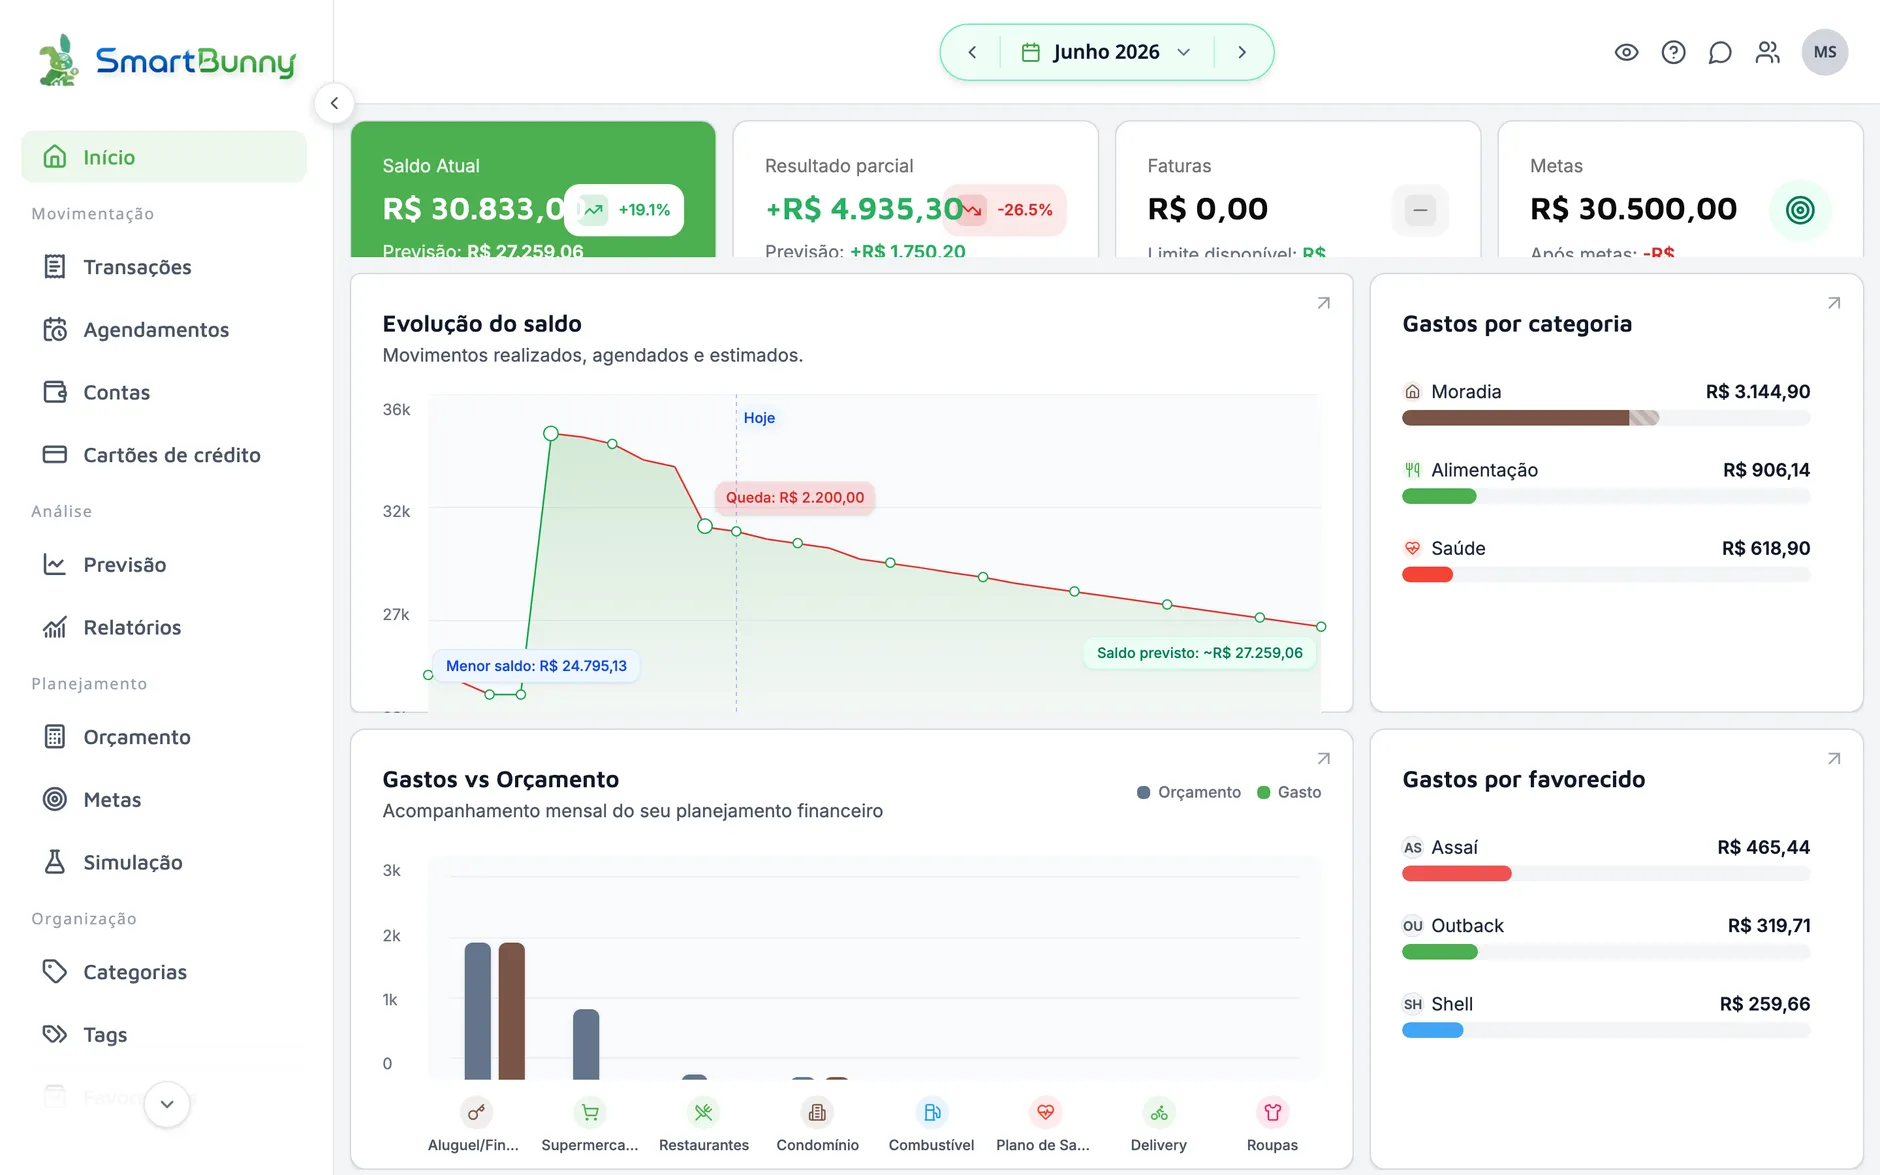
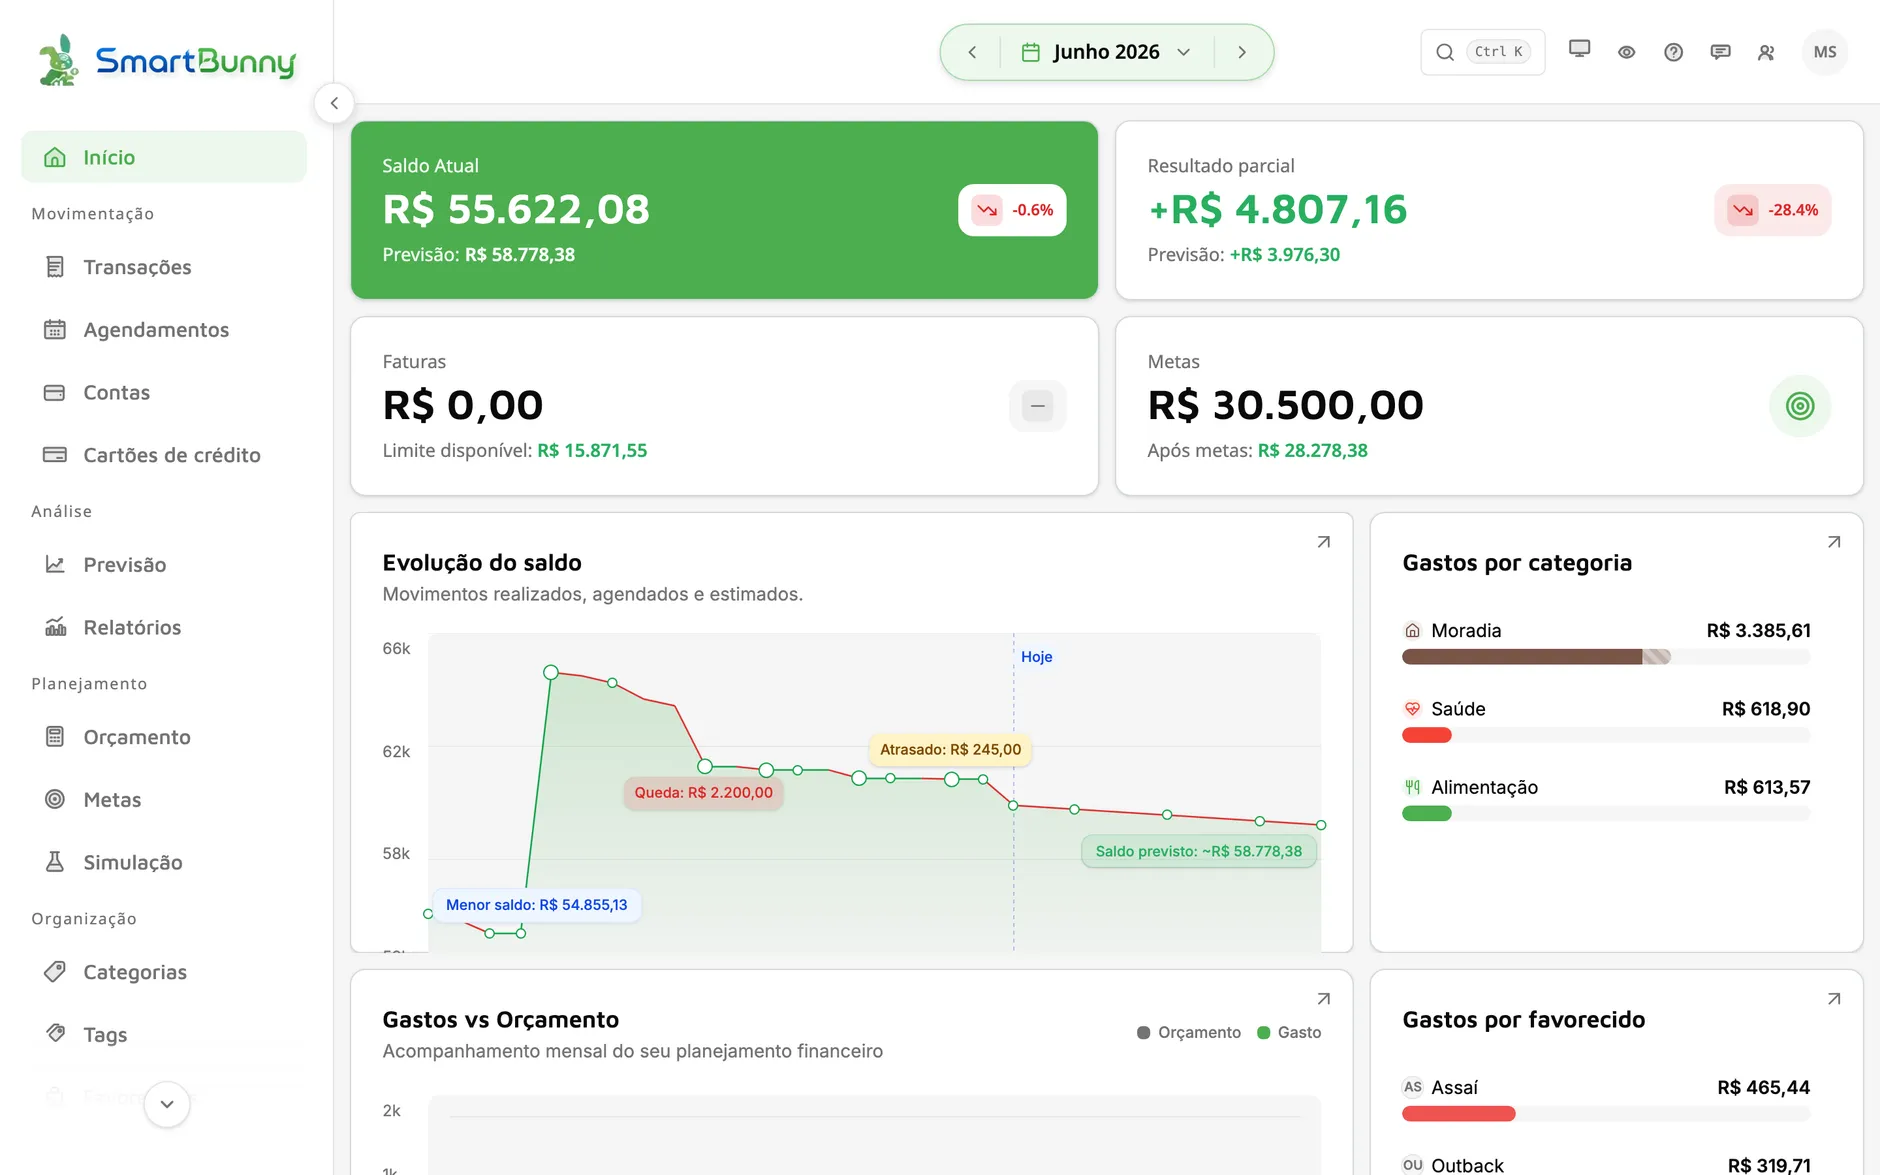
Refactor landing: remove AI, add agendamentos + cashflow, refresh prints
Realign the landing page with what SmartBunny actually ships in v1 (AI is
flag-gated off and not battle-tested) and surface two flagship features.

- Remove every AI claim and 3 over-claims (learned rules, OCR/"recibos",
  auto-detection, "500+ instituições"); reframe import as honest structured
  import (PDF/OFX/XLS/CSV with column mapping + review).
- Replace the AI-import deep-dive with an Agendamentos section that bridges
  into the cashflow forecast; reframe the forecast section as Fluxo de caixa.
- Rename the bento wide card to "Relatórios e análises" so its screenshot
  matches; point the "Assinaturas" phone card at a fresh mobile Agendamentos
  print.
- Regenerate dashboard/agendamentos/agendamentos-mobile/previsao/relatorios
  screenshots; keep metas/orcamentos (test account polluted with k6 data).
- Prune dead import section JS/CSS and unused screenshot assets; clip root
  overflow-x to remove an 11px mobile horizontal scroll.

diff --git a/index.html b/index.html
@@ -4,9 +4,9 @@
     <meta charset="UTF-8" />
     <meta name="viewport" content="width=device-width, initial-scale=1.0" />
     <title>SmartBunny — Seu dinheiro, finalmente sob controle</title>
-    <meta name="description" content="O SmartBunny conecta suas contas via Open Finance, entende seus extratos com IA e mostra o futuro do seu dinheiro — antes de ele acontecer." />
-    <meta property="og:title" content="SmartBunny — Finanças pessoais inteligentes" />
-    <meta property="og:description" content="Conecte suas contas, importe extratos com IA e veja o futuro do seu dinheiro. Feito para o Brasil." />
+    <meta name="description" content="O SmartBunny conecta suas contas via Open Finance, organiza seus lançamentos e projeta seu fluxo de caixa — para você ver o futuro do seu dinheiro antes de ele acontecer." />
+    <meta property="og:title" content="SmartBunny — Finanças pessoais sob controle" />
+    <meta property="og:description" content="Conecte suas contas, organize seus lançamentos e veja seu fluxo de caixa projetado. Feito para o Brasil." />
     <meta property="og:type" content="website" />
     <meta property="og:url" content="https://codexforgebr.github.io/smartbunny-landing/" />
     <meta property="og:image" content="https://codexforgebr.github.io/smartbunny-landing/og-image.png" />
@@ -46,8 +46,8 @@
           </p>
           <h1 class="hero__title" data-split>Seu dinheiro, finalmente sob controle.</h1>
           <p class="hero__sub" data-reveal>
-            O SmartBunny conecta suas contas, entende seus extratos com IA e mostra
-            o futuro do seu dinheiro — <strong>antes de ele acontecer</strong>.
+            O SmartBunny conecta suas contas, organiza seus lançamentos e projeta seu
+            fluxo de caixa — você vê o futuro do seu dinheiro <strong>antes de ele acontecer</strong>.
           </p>
           <div class="hero__actions" data-reveal>
             <a class="btn btn--primary btn--lg" href="#cta" data-magnetic>Quero acesso antecipado</a>
@@ -80,14 +80,14 @@
       <!-- ======================= MARQUEE ======================= -->
       <section class="marquee" aria-label="Integrações">
         <p class="marquee__lead container">
-          <strong>500+ instituições</strong> conectadas via Open Finance
+          <strong>Centenas de instituições</strong> conectadas via Open Finance
         </p>
         <div class="marquee__track" id="marquee" aria-hidden="true">
           <div class="marquee__row">
             <span class="chip">Pix</span><span class="chip">Boleto</span><span class="chip">Open Finance</span>
-            <span class="chip">Extrato PDF</span><span class="chip">OFX</span><span class="chip">XLS</span>
+            <span class="chip">Extrato PDF</span><span class="chip">OFX</span><span class="chip">XLS</span><span class="chip">CSV</span>
             <span class="chip">Cartão de crédito</span><span class="chip">TED &amp; DOC</span>
-            <span class="chip">Recibos</span><span class="chip">Multi-contas</span><span class="chip">Faturas</span>
+            <span class="chip">Multi-contas</span><span class="chip">Faturas</span>
           </div>
         </div>
       </section>
@@ -99,8 +99,8 @@
           <h2 class="section__title" data-split>Um painel. Todas as suas finanças.</h2>
           <div class="bento__grid">
             <article class="bento__card bento__card--wide" data-reveal>
-              <h3>Painel unificado</h3>
-              <p>Contas, cartões, faturas e metas em uma visão única — com a evolução do seu saldo dia a dia.</p>
+              <h3>Relatórios e análises</h3>
+              <p>Receitas, despesas e categorias mês a mês — compare períodos e entenda para onde seu dinheiro está indo.</p>
               <img src="./src/assets/screens/relatorios.webp" alt="Relatórios do SmartBunny com gráfico de receitas e despesas por mês" loading="lazy" width="940" height="588" />
             </article>
             <article class="bento__card" data-reveal>
@@ -114,15 +114,15 @@
               <span class="bento__icon" aria-hidden="true">
                 <svg viewBox="0 0 24 24" fill="none" stroke="currentColor" stroke-width="1.8"><path d="M12 3v13m0 0 4-4m-4 4-4-4"/><path d="M4 21h16"/></svg>
               </span>
-              <h3>Importação com IA</h3>
-              <p>PDF, XLS, OFX ou foto de recibo: a IA entende Pix, boleto e fatura — e categoriza sozinha.</p>
+              <h3>Importe seus extratos</h3>
+              <p>PDF, OFX, XLS ou CSV: mapeie as colunas e revise tudo antes de confirmar a importação.</p>
             </article>
             <article class="bento__card" data-reveal>
               <span class="bento__icon" aria-hidden="true">
                 <svg viewBox="0 0 24 24" fill="none" stroke="currentColor" stroke-width="1.8"><path d="M12 2v4m0 12v4M2 12h4m12 0h4"/><circle cx="12" cy="12" r="4"/></svg>
               </span>
-              <h3>Regras inteligentes</h3>
-              <p>Automatize categorias, favorecidos e transferências com regras que aprendem com você.</p>
+              <h3>Regras de automação</h3>
+              <p>Defina uma regra uma vez e o SmartBunny categoriza, marca favorecidos e identifica transferências sozinho.</p>
             </article>
             <article class="bento__card" data-reveal>
               <span class="bento__icon" aria-hidden="true">
@@ -133,41 +133,41 @@
             </article>
             <article class="bento__card bento__card--tall" data-reveal>
               <h3>Assinaturas sob controle</h3>
-              <p>Netflix, academia, condomínio: tudo que se repete, detectado e projetado no seu fluxo.</p>
-              <img src="./src/assets/screens/transacoes-mobile.webp" alt="Resumo de transações no celular com receitas, despesas e resultado do mês" loading="lazy" width="390" height="844" />
+              <p>Netflix, academia, condomínio: cadastre o que se repete e veja tudo projetado no seu fluxo de caixa.</p>
+              <img src="./src/assets/screens/agendamentos-mobile.webp" alt="Tela de agendamentos do SmartBunny no celular com assinaturas e contas recorrentes" loading="lazy" width="390" height="844" />
             </article>
           </div>
         </div>
       </section>
 
-      <!-- ======================= IMPORT AI DEEP-DIVE ======================= -->
-      <section class="import section" id="importacao">
-        <div class="container import__layout">
-          <div class="import__copy">
-            <p class="eyebrow" data-reveal>Importação com IA</p>
-            <h2 class="section__title" data-split>Jogue o extrato. A IA faz o resto.</h2>
-            <ol class="import__steps" id="import-steps">
-              <li class="import__step is-active" data-step="0">
-                <h3>Envie qualquer arquivo</h3>
-                <p>Extrato em PDF, planilha XLS, OFX do seu banco ou até a foto de um comprovante Pix.</p>
+      <!-- ======================= AGENDAMENTOS DEEP-DIVE ======================= -->
+      <section class="agenda section" id="agendamentos">
+        <div class="container agenda__layout">
+          <div class="agenda__copy">
+            <p class="eyebrow" data-reveal>Agendamentos</p>
+            <h2 class="section__title" data-split>Tudo que se repete, sob controle.</h2>
+            <ol class="agenda__steps">
+              <li class="agenda__step" data-reveal>
+                <h3>Assinaturas, contas e parcelas</h3>
+                <p>Cadastre assinaturas, boletos, parcelamentos e até o salário — com recorrência mensal, semanal, anual ou um número fixo de parcelas.</p>
               </li>
-              <li class="import__step" data-step="1">
-                <h3>A IA entende tudo</h3>
-                <p>Datas, valores, favorecidos, boletos e faturas são identificados automaticamente — sem modelo fixo.</p>
+              <li class="agenda__step" data-reveal>
+                <h3>Registro automático no vencimento</h3>
+                <p>Valor fixo ou estimado pelos últimos lançamentos. No vencimento, o agendamento vira transação e se concilia sozinho com o que cai na conta.</p>
               </li>
-              <li class="import__step" data-step="2">
-                <h3>Pronto: categorizado</h3>
-                <p>As transações chegam organizadas por categoria, com favorecidos e tags. Você só revisa.</p>
+              <li class="agenda__step" data-reveal>
+                <h3>Direto no seu fluxo de caixa</h3>
+                <p>Cada agendamento alimenta automaticamente a sua previsão. É assim que o SmartBunny enxerga o futuro do seu saldo.</p>
               </li>
             </ol>
           </div>
-          <div class="import__visual">
-            <figure class="phone-frame">
-              <div class="phone-frame__screens">
-                <img class="is-active" data-screen="0" src="./src/assets/screens/importacoes-mobile.webp" alt="Tela de importação do SmartBunny com botão Importar" loading="lazy" width="390" height="844" />
-                <img data-screen="1" src="./src/assets/screens/dashboard-mobile.webp" alt="Painel do SmartBunny no celular com saldo atual" loading="lazy" width="390" height="844" />
-                <img data-screen="2" src="./src/assets/screens/transacoes-mobile.webp" alt="Transações categorizadas no celular" loading="lazy" width="390" height="844" />
-              </div>
+          <div class="agenda__visual" data-reveal>
+            <figure class="browser-frame">
+              <figcaption class="browser-frame__bar" aria-hidden="true">
+                <span class="dots"><i></i><i></i><i></i></span>
+                <span class="urlbar">app.smartbunny.com.br/agendamentos</span>
+              </figcaption>
+              <img src="./src/assets/screens/agendamentos.webp" alt="Tela de agendamentos do SmartBunny com assinaturas, contas e parcelas recorrentes" loading="lazy" width="1880" height="1175" />
             </figure>
           </div>
         </div>
@@ -176,11 +176,11 @@
       <!-- ======================= FORECAST SHOWPIECE ======================= -->
       <section class="forecast section" id="previsao">
         <div class="container">
-          <p class="eyebrow" data-reveal>Previsão &amp; Simulação</p>
+          <p class="eyebrow" data-reveal>Fluxo de caixa</p>
           <h2 class="section__title" data-split>Veja o futuro do seu dinheiro.</h2>
           <p class="section__sub" data-reveal>
-            Fluxo de caixa projetado com seus agendamentos e assinaturas — e simulações
-            <em>“e se?”</em> para decidir com segurança. E se eu trocar de carro? E se eu ganhar um aumento?
+            Sua previsão de saldo é construída a partir das transações reais, dos agendamentos e das
+            faturas de cartão — projetada mês a mês, até três anos à frente.
           </p>
 
           <div class="forecast__stats" id="forecast-stats" data-reveal>

diff --git a/src/styles/sections/agendamentos.css b/src/styles/sections/agendamentos.css
@@ -1,0 +1,44 @@
+.agenda__layout {
+  display: grid;
+  grid-template-columns: 0.85fr 1.15fr;
+  gap: clamp(2rem, 6vw, 5rem);
+  align-items: center;
+}
+
+.agenda__steps {
+  list-style: none;
+  margin: 2.4rem 0 0;
+  padding: 0;
+  display: grid;
+  gap: 0.4rem;
+}
+
+.agenda__step {
+  border-left: 3px solid var(--green);
+  padding: 0.9rem 0 0.9rem 1.4rem;
+}
+
+.agenda__step h3 {
+  font-size: 1.15rem;
+  margin-bottom: 0.3rem;
+}
+
+.agenda__step p {
+  color: var(--text-muted);
+  font-size: 0.97rem;
+  margin: 0;
+}
+
+.agenda__visual {
+  position: relative;
+}
+
+@media (max-width: 860px) {
+  .agenda__layout {
+    grid-template-columns: 1fr;
+  }
+
+  .agenda__visual {
+    order: -1;
+  }
+}

diff --git a/src/styles/base.css b/src/styles/base.css
@@ -6,6 +6,7 @@
 
 html {
   scroll-behavior: smooth;
+  overflow-x: clip;
 }
 
 body {
@@ -191,38 +192,3 @@ a {
   padding: 0.25rem 1rem;
 }
 
-.phone-frame {
-  position: relative;
-  margin: 0;
-  width: min(320px, 78vw);
-  aspect-ratio: 390 / 800;
-  border-radius: 44px;
-  border: 1px solid var(--line);
-  background: #0a1810;
-  padding: 12px;
-  box-shadow: 0 40px 100px rgba(0, 0, 0, 0.55);
-}
-
-.phone-frame__screens {
-  position: relative;
-  width: 100%;
-  height: 100%;
-  border-radius: 34px;
-  overflow: hidden;
-  background: #fff;
-}
-
-.phone-frame__screens img {
-  position: absolute;
-  inset: 0;
-  width: 100%;
-  height: 100%;
-  object-fit: cover;
-  object-position: top;
-  opacity: 0;
-  transition: opacity 0.45s ease;
-}
-
-.phone-frame__screens img.is-active {
-  opacity: 1;
-}

diff --git a/src/main.ts b/src/main.ts
@@ -10,7 +10,7 @@ import './styles/sections/nav.css';
 import './styles/sections/hero.css';
 import './styles/sections/marquee.css';
 import './styles/sections/bento.css';
-import './styles/sections/import.css';
+import './styles/sections/agendamentos.css';
 import './styles/sections/forecast.css';
 import './styles/sections/goals.css';
 import './styles/sections/security.css';
@@ -23,7 +23,6 @@ import { setupParticles } from './lib/particles';
 import { setupMarquee } from './lib/marquee';
 import { setupNav } from './sections/nav';
 import { setupHero } from './sections/hero';
-import { setupImportAi } from './sections/import-ai';
 import { setupForecast } from './sections/forecast';
 import { setupGoals } from './sections/goals';
 
@@ -41,7 +40,6 @@ setupNav();
 setupSplitText();
 setupReveals();
 setupHero();
-setupImportAi();
 setupForecast();
 setupGoals();
 